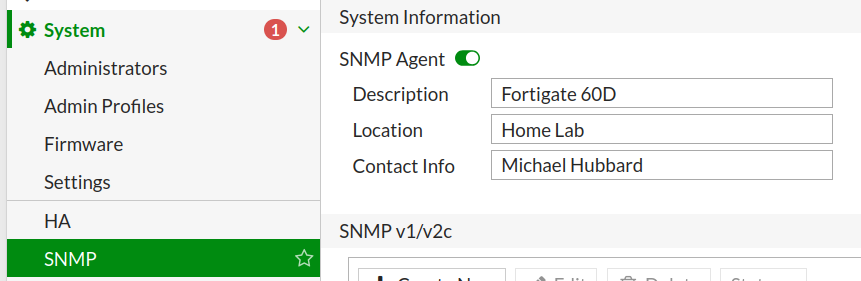
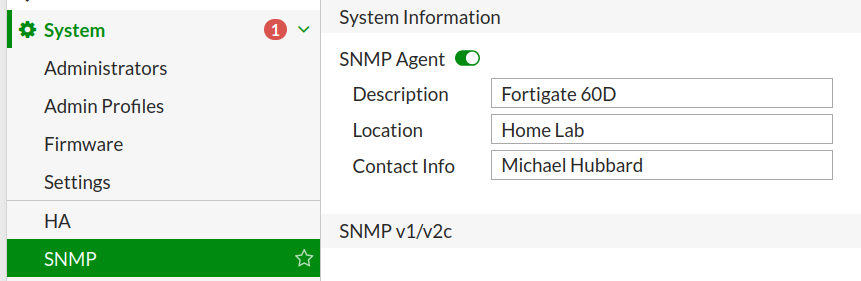
Git Title: docs/appendix-firewall-arp-snmp.md: Formatting

Changed region(s): [[0.3926, 0.911, 1.0, 1.0], [0.8455, 0.9964, 0.8757, 1.0]]

diff --git a/docs/appendix-firewall-arp-snmp.md b/docs/appendix-firewall-arp-snmp.md
@@ -269,7 +269,7 @@ end
 
 ----------------------------------------------------------------
 
-![Fortinet-Interface](img/fortinet-interface.png)
+![Fortinet-Interface](img/fortinet-interface.png){ width="300" }
 
 ----------------------------------------------------------------
 
@@ -286,7 +286,7 @@ end
 
 ----------------------------------------------------------------
 
-![Fortinet-snmp-info](img/fortinet-snmp.png)
+![Fortinet-snmp-info](img/fortinet-snmp.png){ width="300" }
 
 ----------------------------------------------------------------
 
@@ -310,7 +310,7 @@ end
 
 ----------------------------------------------------------------
 
-![Fortinet-snmp-community](img/fortinet-community.png)
+![Fortinet-snmp-community](img/fortinet-community.png){ width="300" }
 
 The community name field is essentially the password used for snmp. Do not save it in a text file accessible to every user. Save it in a password manager line `KeepassXC` or `Bitwarden`. You can use either of those for free on the automation VM.
 
